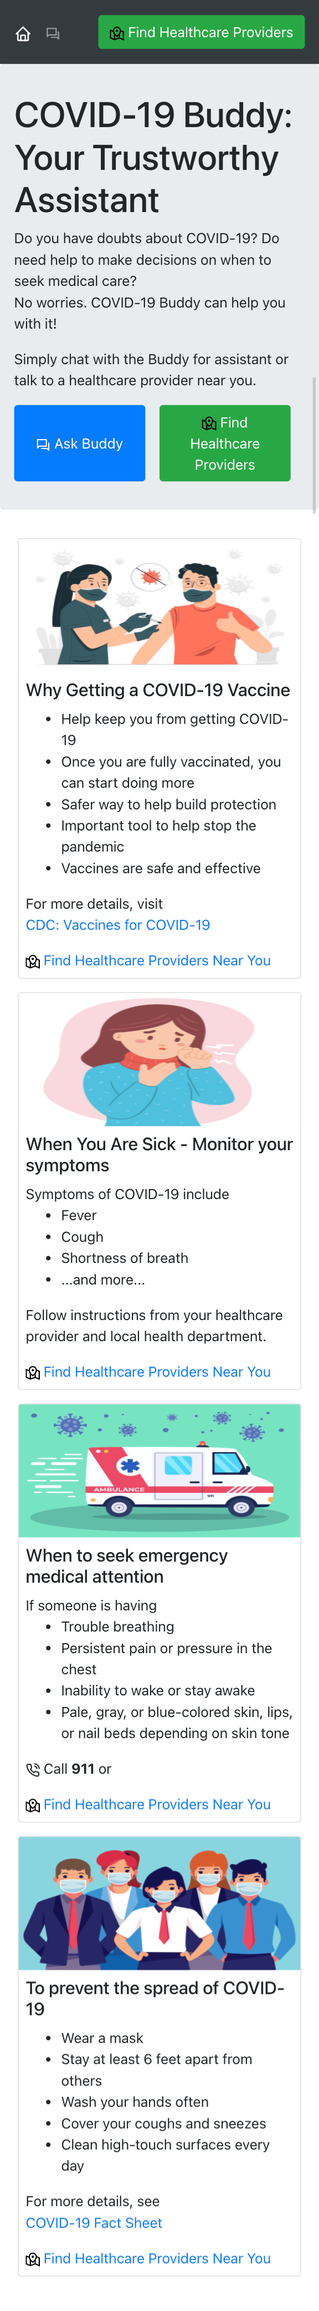
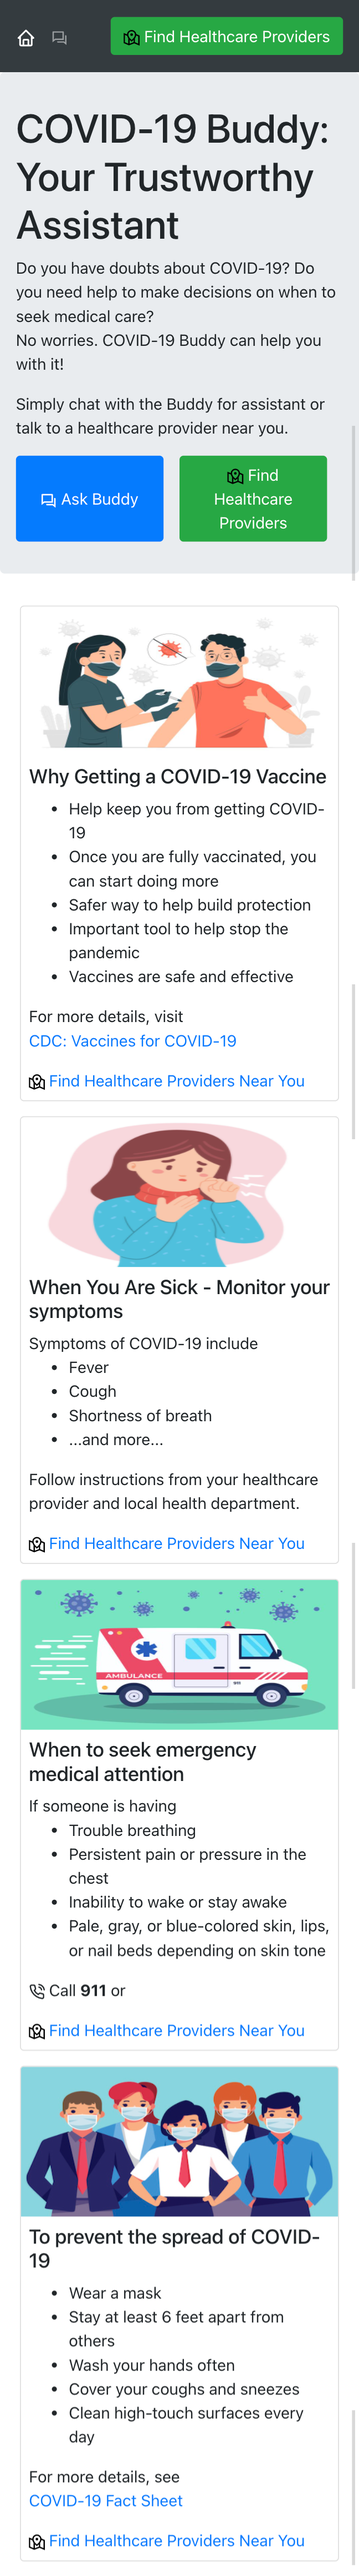
Finalize LandingPage

diff --git a/client/src/components/Landing/Landing.js b/client/src/components/Landing/Landing.js
@@ -1,8 +1,10 @@
 import React, { useContext } from 'react';
-import { useHistory} from 'react-router-dom';
+import { useHistory } from 'react-router-dom';
 import { Button, CardGroup, Card, Jumbotron } from 'react-bootstrap';
 
 import HCPContext from '../../store/hcp-context.js';
+
+import CardBody from './CardBody';
 
 // Styling
 import classes from './Landing.module.css';
@@ -17,6 +19,8 @@ const Landing = (props) => {
     const ctx = useContext(HCPContext);
     const history = useHistory();
 
+    // --- Handlers
+    // For Jumbotron's Buddy button
     const btnBuddyHandler = () => {
         history.push({
             pathname: '/askbuddy',
@@ -24,17 +28,25 @@ const Landing = (props) => {
         });
     };
 
+    // --- Common Jsx
+    const jsxFindHCPs = (<div>{ctx.getLinkFindHCP()}</div>);
+
+    // ---------------------------
+
     return (<>
 
         <Jumbotron>
             <h1>COVID-19 Buddy: Your Trustworthy Assistant</h1>
-            <p>
-                Do you have doubts about COVID-19? Do need help to make decisions on when to seek medical care? <br />
-                No worries. COVID-19 Buddy can help you with it! <br />
-            </p>
-            <p>
-                Simply chat with the Buddy for assistant or talk to a healthcare provider near you.
-            </p>
+            <div>
+                <p>
+                    Do you have doubts about COVID-19? Do you need help to make decisions on when to seek medical care? <br />
+                    No worries. COVID-19 Buddy can help you with it! <br />
+                </p>
+                <p>
+                    Simply chat with the Buddy for assistant or talk to a healthcare provider near you.
+                </p>
+            </div>
+
             <div className={classes['jumbotron-button-container']}>
                 <Button variant="primary"
                     onClick={btnBuddyHandler}>
@@ -49,10 +61,9 @@ const Landing = (props) => {
         <section className="container main-container">
             <CardGroup className={classes['card-group-landing']}>
 
-                <Card style={{ width: '20rem' }}>
+                <Card className={classes['card-container-outer']}>
                     <Card.Img variant="top" src="images/vaccine.jpg" height="150" />
-                    <div className={classes['card-container']}>
-                        <h5>Why Getting a COVID-19 Vaccine</h5>
+                    <CardBody title="Why Getting a COVID-19 Vaccine">
                         <div>
                             <ul>
                                 <li>Help keep you from getting COVID-19</li>
@@ -66,68 +77,51 @@ const Landing = (props) => {
                         <div>
                             <div>For more details, visit</div>
                             <div><a href="https://www.cdc.gov/coronavirus/2019-ncov/vaccines/index.html" target="_blank" rel="noreferrer">CDC: Vaccines for COVID-19</a></div>
-
-                            <div>
-                                {ctx.getLinkFindHCP()}
-                            </div>
+                            {jsxFindHCPs}
                         </div>
-                    </div>
-
+                    </CardBody>
                 </Card>
 
-                <Card style={{ width: '20rem' }}>
+                <Card className={classes['card-container-outer']}>
                     <Card.Img variant="top" src="images/cough.jpg" height="150" />
-                    <div className={classes['card-container']}>
-                        <h5>When You Are Sick - Monitor your symptoms</h5>
-
+                    <CardBody title="When You Are Sick - Monitor your symptoms">
                         <div>
                             Symptoms of COVID-19 include
-                                <ul>
+                            <ul>
                                 <li>Fever</li>
                                 <li>Cough</li>
                                 <li>Shortness of breath </li>
                                 <li>...and more...</li>
                             </ul>
-                                Follow instructions from your healthcare provider and local health department.
-
-                                </div>
-
-                        <div>
-                            {ctx.getLinkFindHCP()}
+                            Follow instructions from your healthcare provider and local health department.
                         </div>
-                        
-                    </div>
+                        {jsxFindHCPs}
+                    </CardBody>
                 </Card>
 
-                <Card style={{ width: '20rem' }}>
+                <Card className={classes['card-container-outer']}>
                     <Card.Img variant="top" src="images/ambulance.jpg" height="150" />
-                    <div className={classes['card-container']}>
-                        <h5>When to seek emergency medical attention</h5>
+                    <CardBody title="When to seek emergency medical attention">
                         <div>
                             If someone is having
-                                    <ul>
+                            <ul>
                                 <li>Trouble breathing</li>
                                 <li>Persistent pain or pressure in the chest</li>
                                 <li>Inability to wake or stay awake</li>
                                 <li>Pale, gray, or blue-colored skin, lips, or
-                                        nail beds depending on skin tone</li>
+                                    nail beds depending on skin tone</li>
                             </ul>
                         </div>
-
-
                         <div>
                             <div><FiPhoneCall /> Call <strong>911</strong> or</div>
-                            <div>{ctx.getLinkFindHCP()}</div>
+                            {jsxFindHCPs}
                         </div>
-                    </div>
-
+                    </CardBody>
                 </Card>
 
-
-                <Card style={{ width: '20rem' }}>
+                <Card className={classes['card-container-outer']}>
                     <Card.Img variant="top" src="images/mask.jpg" height="150" />
-                    <div className={classes['card-container']}>
-                        <h5>To prevent the spread of COVID-19</h5>
+                    <CardBody title="To prevent the spread of COVID-19">
                         <div>
                             <ul>
                                 <li>Wear a mask</li>
@@ -141,22 +135,14 @@ const Landing = (props) => {
                         <div>
                             <div>For more details, see</div>
                             <div><a href="https://www.cdc.gov/coronavirus/2019-ncov/downloads/sick-with-2019-nCoV-fact-sheet.pdf" target="_blank" rel="noreferrer">COVID-19 Fact Sheet</a></div>
-                            <div>
-                                {ctx.getLinkFindHCP()}
-                            </div>
                         </div>
-                    </div>
-
+                    </CardBody>
                 </Card>
 
             </CardGroup>
         </section>
 
-
-
-
     </>);
 };
-
 
 export default Landing;

diff --git a/client/src/components/Landing/Landing.module.css b/client/src/components/Landing/Landing.module.css
@@ -1,26 +1,18 @@
+.card-container {
+  margin: 0.5em;
+}
+
 .jumbotron-button-container {
-    display: flex;
+  display: flex;
 }
 
 .jumbotron-button-container button {
-    margin-right: 1em;
-    width: 15em;    
-}
-
-.card-container {
-    margin: 0.5em;
+  margin-right: 1em;
+  width: 15em;
 }
 
 @media screen and (max-width: 600px) {
-    .jumbotron-button-container button {
-        width: 50%;    
-    }
-
-    /* Make the card center-aligned on a smaller screen */
-    .card-group-landing {
-        flex-direction: column;
-        display: flex;
-        justify-content: center;
-        align-items: center;
-      }
+  .jumbotron-button-container button {
+    width: 50%;
+  }
 }

diff --git a/client/src/components/Landing/CardBody.js b/client/src/components/Landing/CardBody.js
@@ -1,0 +1,11 @@
+import classes from './CardBody.module.css';
+
+const CardBody = (props) => {
+
+    return (<div className={classes['card-body-container']}>
+        <h5>{ props.title }</h5>
+        {props.children} 
+    </div>)
+};
+
+export default CardBody;

diff --git a/client/src/components/Landing/CardBody.module.css b/client/src/components/Landing/CardBody.module.css
@@ -1,0 +1,3 @@
+.card-body-container {
+    margin: 0.5em;
+}

diff --git a/devpost_project.md b/devpost_project.md
@@ -24,13 +24,15 @@ The Ask Buddy page provides 3 modes of assistance which are:
 #### - FAQs
 For the **FAQs** mode, a user can choose or search for a Frequently Asked Question (FAQ) that he/she is interested in. The FAQs were collected from trustworthy organizations which are WHO, CDC (US), and FDA (US).
 
-In addition to providing a response from a selected FAQ, the app also provides a suggestion to find particular specialists nearby if applicable or default to provide a link any HCP near a user.
+In addition to providing a response from a selected FAQ, the app also 
+* Provides a suggestion to find particular specialists nearby in a map if applicable or default to provide a link any HCP near a user.
+* Provides a list of nearby specialists nearby in a response map if applicable
 
 #### - Buddy
 
 For the **Buddy** mode, a user can enter any questions that he/she has about COVID-19 and the app will let an AI respond with an answer from a FAQ that is closest to a user question and also provides additional responses that are closely related to a user question.
 
-Similar to the FAQs mode, the app will also provides a suggestion to find particular specialists nearby based on a user question or default to provide a link any HCP near a user.
+Similar to the FAQs mode, the app will also provides a suggestion to find particular specialists nearby in a map and in a response text
 
 #### - Checker
 
